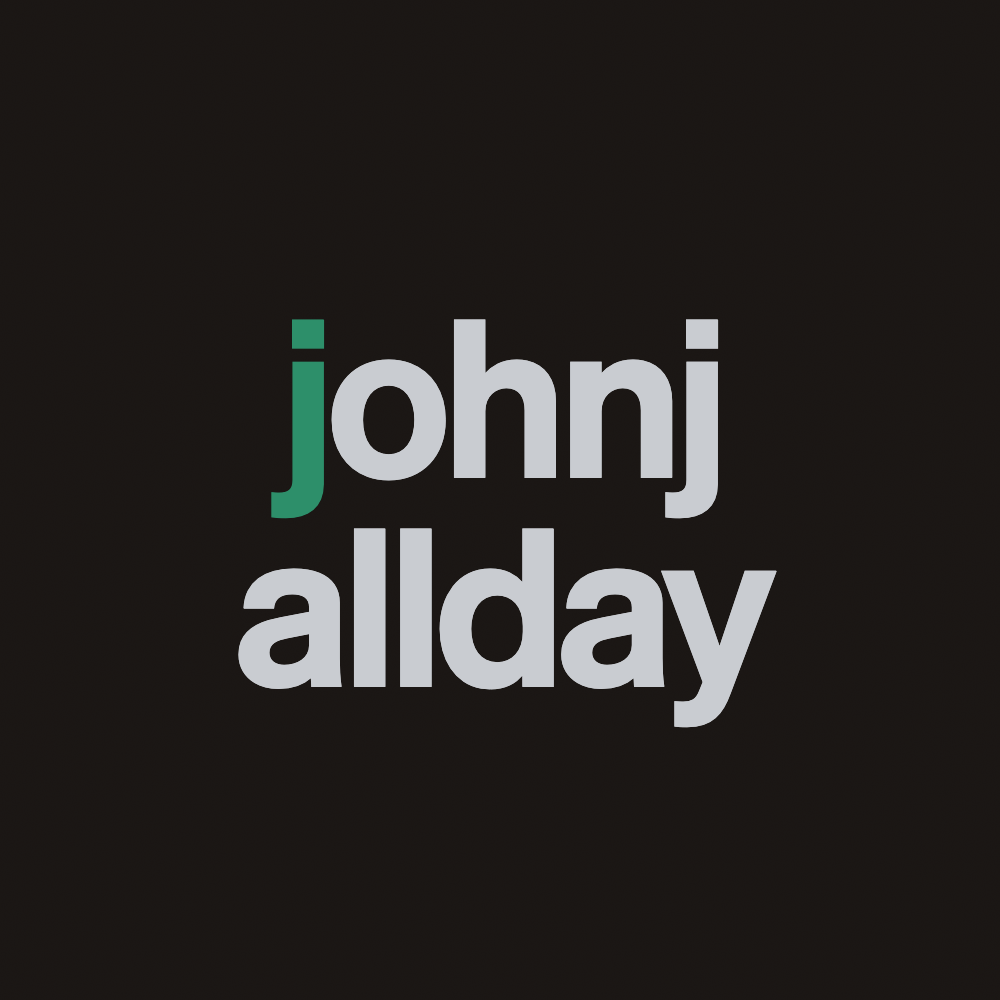
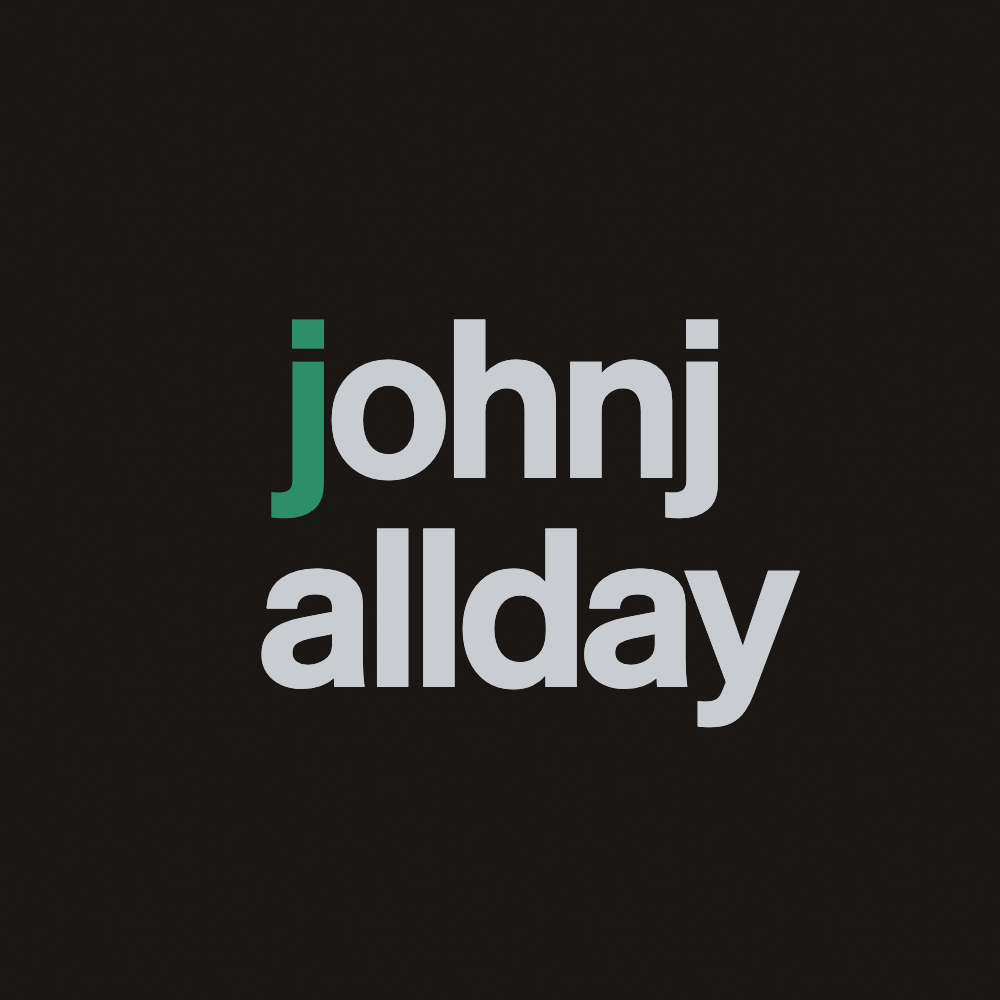
Profile mark: switch to hanging-j composition
profile.html now uses the canonical hanging-j layout matching the site
and endcard. profile-pic.png re-rendered at 1000×1000 — bright emerald
(#2D8F6A, correct thumbnail-scale tier) preserved on the leading 'j',
'allday' indents under 'ohnj' as on the live site.

All stacked-wordmark surfaces now share one composition:
  site wordmark (deep emerald, #1F6B4E)
  endcard wordmark (deep emerald, #1F6B4E)
  profile mark (bright emerald, #2D8F6A)

Banner and share card use single-line layout, unaffected.

Changed region(s): [[0.217, 0.527, 0.806, 0.744]]

diff --git a/profile.html b/profile.html
@@ -74,6 +74,15 @@
       display: inline;
     }
 
+    /* Hanging-j offset: transparent 'j' aligns 'allday' under 'ohnj'
+       so the emerald 'j' hangs into the left margin. Canonical wordmark
+       composition across all surfaces. */
+    .mark .offset {
+      color: transparent;
+      display: inline;
+      user-select: none;
+    }
+
     /* Optional crop guide — uncomment to visualize how IG/Spotify will circle-crop */
     /*
     .tile::before {
@@ -92,7 +101,7 @@
   <div class="tile" id="export">
     <div class="mark">
       <span><span class="accent">j</span>ohnj</span>
-      <span>allday</span>
+      <span><span class="offset" aria-hidden="true">j</span>allday</span>
     </div>
   </div>
 </body>
